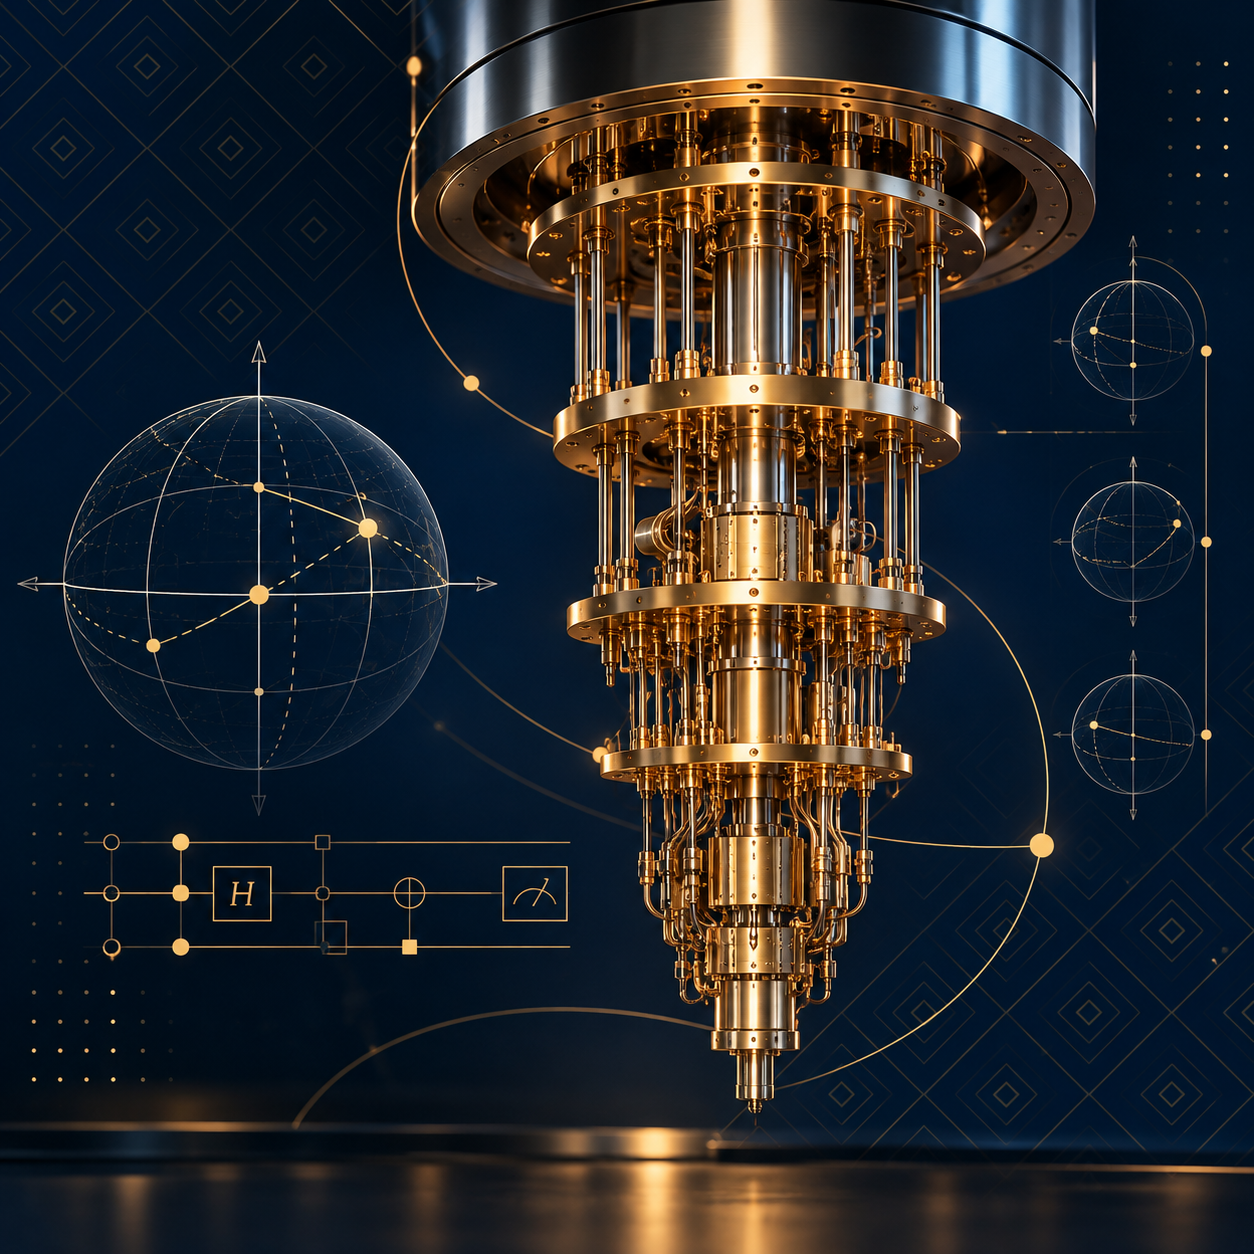
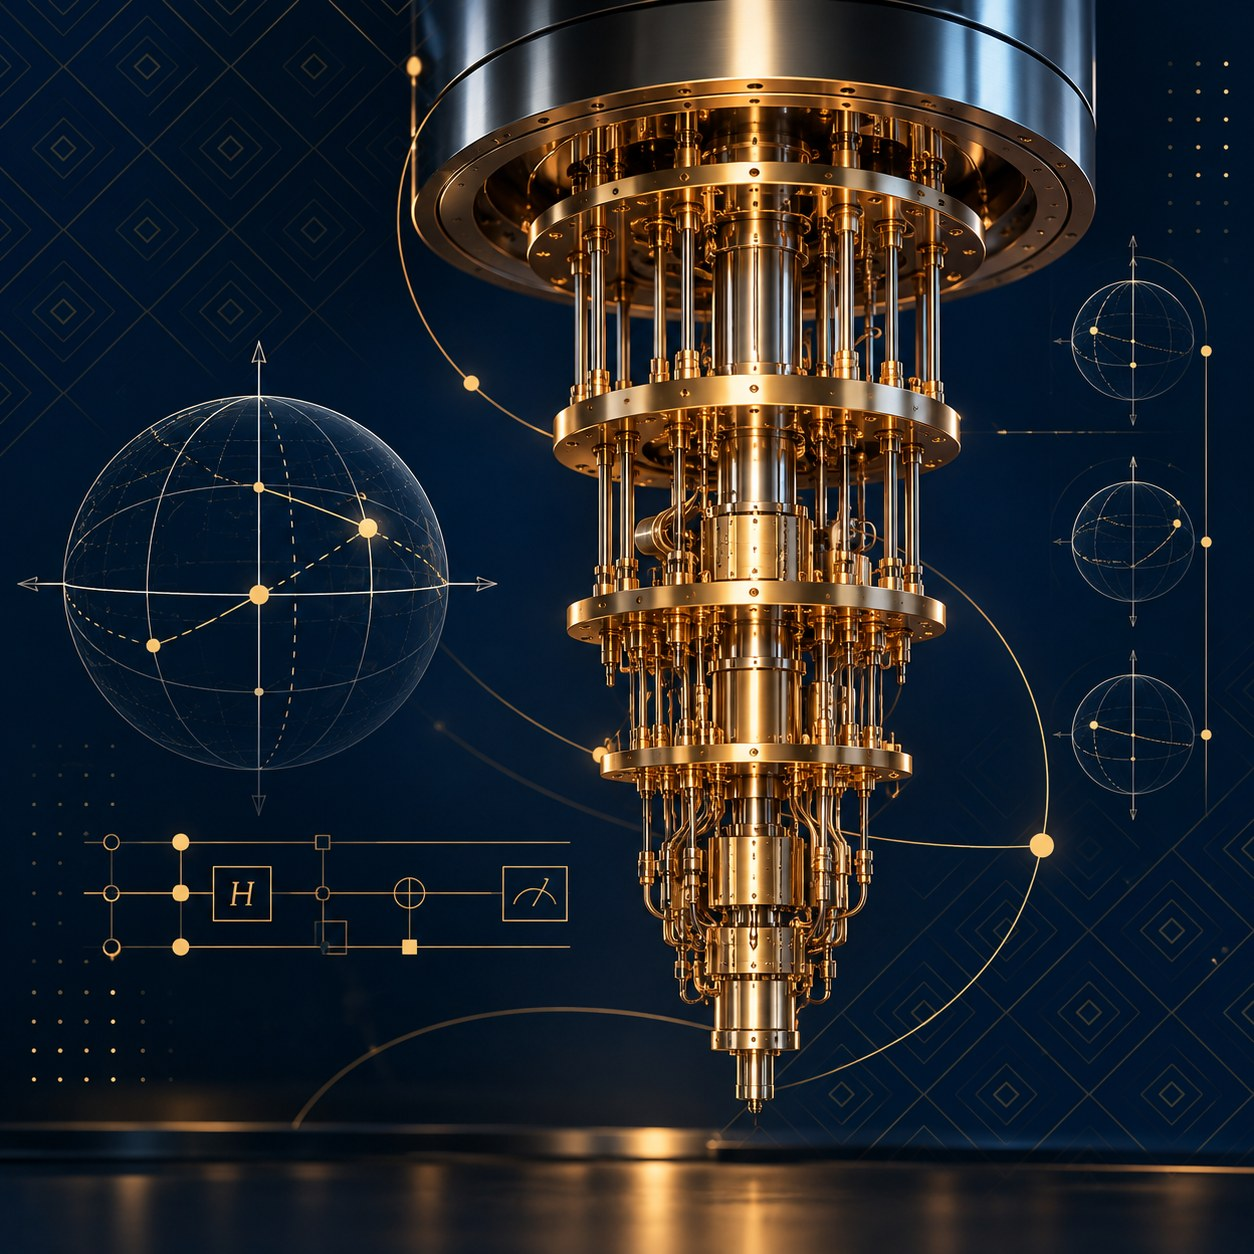
Fix AI Tutor hero image: real JPEG + cache-busting query
The deployed hero.jpg was a PNG saved with a .jpg extension. With
X-Content-Type-Options: nosniff this MIME mismatch could prevent the
image from rendering, and the old placeholder was cached for a year as
'immutable' so browsers kept serving it.

- Re-encode hero.jpg as a proper JPEG (1254x1254, the golden quantum
  chandelier image the user provided)
- Add ?v=2 cache-buster to the hero img src so browsers fetch the new
  asset instead of the year-long immutable cache

Changed region(s): [[0.5287, 0.1555, 0.5598, 0.1866]]

diff --git a/public/index.html b/public/index.html
@@ -4014,7 +4014,7 @@ ${crumb([{t:'Home',h:'#/'},{t:'Programs',h:'#/education'},{t:'Quantum AI Tutor'}
     </div>
     <div style="position:relative">
       <div class="slot filled" style="border-radius:20px;overflow:hidden;box-shadow:0 50px 100px -40px rgba(0,0,0,.6);border:1px solid rgba(255,255,255,.1)">
-        <img src="${esc(mediaUrl('media/tutor/hero.jpg'))}" alt="A learner exploring quantum computing with the Quantum AI Tutor" style="width:100%;height:100%;object-fit:cover;display:block" loading="lazy">
+        <img src="${esc(mediaUrl('media/tutor/hero.jpg'))}?v=2" alt="A learner exploring quantum computing with the Quantum AI Tutor" style="width:100%;height:100%;object-fit:cover;display:block" loading="lazy">
       </div>
       <div style="position:absolute;top:-28px;right:-22px;width:130px;height:74px;border-radius:14px;overflow:hidden;box-shadow:0 20px 50px -12px rgba(0,0,0,.55);border:1px solid rgba(201,165,91,.4)">${art('bloch')}</div>
       <div style="position:absolute;bottom:-22px;left:-18px;padding:12px 16px;background:var(--dark-2);border:1px solid rgba(201,165,91,.35);border-radius:14px;box-shadow:0 20px 50px -18px rgba(0,0,0,.6)">

diff --git a/site/app.js b/site/app.js
@@ -1981,7 +1981,7 @@ ${crumb([{t:'Home',h:'#/'},{t:'Programs',h:'#/education'},{t:'Quantum AI Tutor'}
     </div>
     <div style="position:relative">
       <div class="slot filled" style="border-radius:20px;overflow:hidden;box-shadow:0 50px 100px -40px rgba(0,0,0,.6);border:1px solid rgba(255,255,255,.1)">
-        <img src="${esc(mediaUrl('media/tutor/hero.jpg'))}" alt="A learner exploring quantum computing with the Quantum AI Tutor" style="width:100%;height:100%;object-fit:cover;display:block" loading="lazy">
+        <img src="${esc(mediaUrl('media/tutor/hero.jpg'))}?v=2" alt="A learner exploring quantum computing with the Quantum AI Tutor" style="width:100%;height:100%;object-fit:cover;display:block" loading="lazy">
       </div>
       <div style="position:absolute;top:-28px;right:-22px;width:130px;height:74px;border-radius:14px;overflow:hidden;box-shadow:0 20px 50px -12px rgba(0,0,0,.55);border:1px solid rgba(201,165,91,.4)">${art('bloch')}</div>
       <div style="position:absolute;bottom:-22px;left:-18px;padding:12px 16px;background:var(--dark-2);border:1px solid rgba(201,165,91,.35);border-radius:14px;box-shadow:0 20px 50px -18px rgba(0,0,0,.6)">
